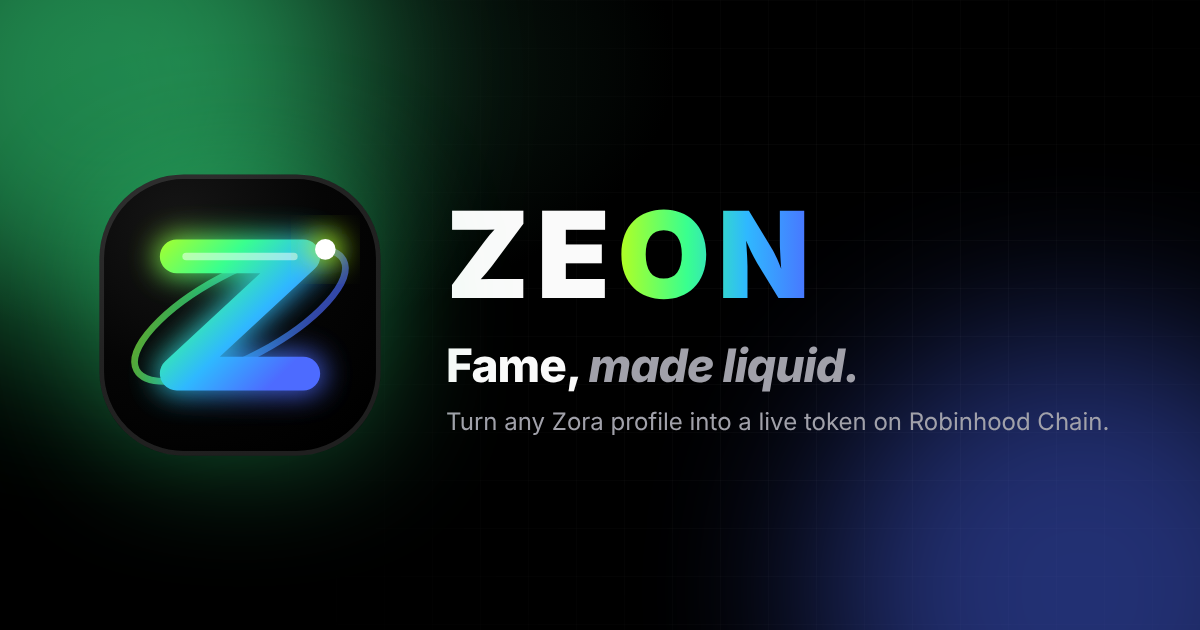
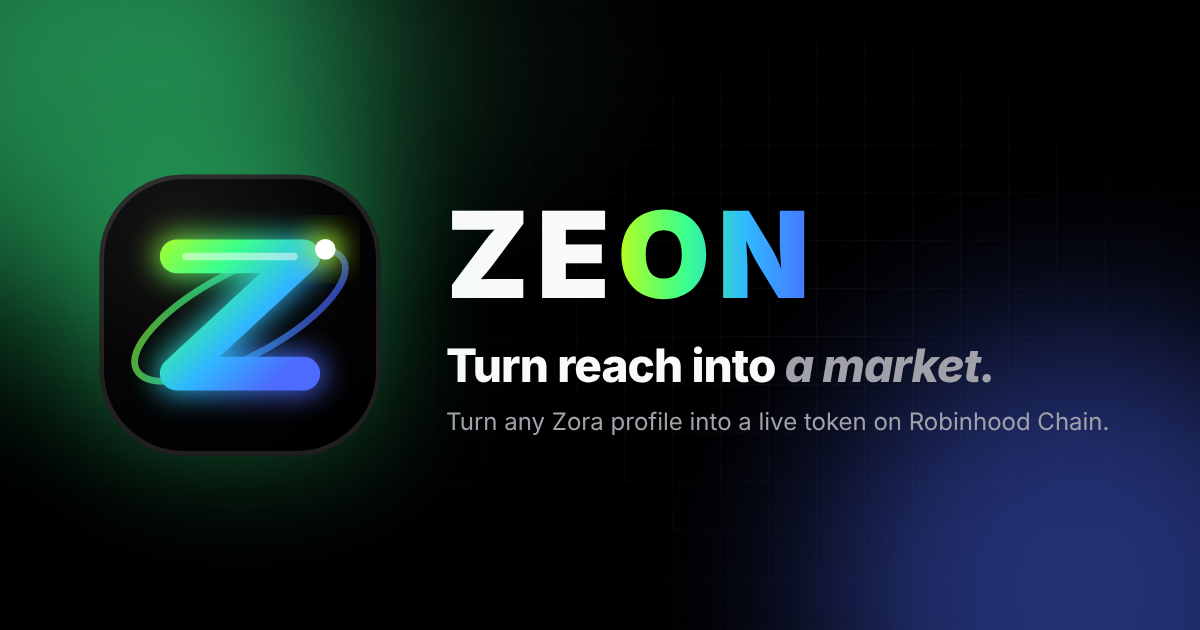
Change the headline to "Turn reach into a market."
Update the hero (keeping "a market." on one line), page title,
og/twitter titles, the link-preview image (cache-busted to ?v=4) and
the README.

Claude-Session: https://claude.ai/code/session_01ApRX4yECrfcvcA7r9BKTUg

Changed region(s): [[0.37, 0.5429, 0.8325, 0.6333]]

diff --git a/index.html b/index.html
@@ -18,17 +18,17 @@
     </script>
     <meta property="og:type" content="website" />
     <meta property="og:site_name" content="ZEON" />
-    <meta property="og:title" content="ZEON · Fame, made liquid" />
+    <meta property="og:title" content="ZEON · Turn reach into a market" />
     <meta property="og:description" content="Turn any Zora profile into a live token on Robinhood Chain." />
-    <meta property="og:image" content="%SITE_URL%/og-image.png?v=3" />
+    <meta property="og:image" content="%SITE_URL%/og-image.png?v=4" />
     <meta property="og:image:width" content="1200" />
     <meta property="og:image:height" content="630" />
     <meta property="og:url" content="%SITE_URL%/" />
     <meta name="twitter:card" content="summary_large_image" />
-    <meta name="twitter:title" content="ZEON · Fame, made liquid" />
+    <meta name="twitter:title" content="ZEON · Turn reach into a market" />
     <meta name="twitter:description" content="Turn any Zora profile into a live token on Robinhood Chain." />
-    <meta name="twitter:image" content="%SITE_URL%/og-image.png?v=3" />
-    <title>ZEON · Fame, made liquid</title>
+    <meta name="twitter:image" content="%SITE_URL%/og-image.png?v=4" />
+    <title>ZEON · Turn reach into a market</title>
     <meta name="description" content="ZEON turns any Zora profile into a live token on Robinhood Chain. Born on a bonding curve, priced by belief." />
   </head>
   <body>

diff --git a/src/components/ZeonHero.tsx b/src/components/ZeonHero.tsx
@@ -67,7 +67,7 @@ export function ZeonHero() {
         transition={{ duration: 0.6, delay: 0.2, ease: "easeOut" }}
         className="max-w-3xl text-5xl font-bold leading-[1.05] tracking-tight text-zinc-900 md:text-7xl dark:text-white"
       >
-        Fame, <em className="font-extrabold italic text-zinc-700 dark:text-zinc-300">made liquid.</em>
+        Turn reach into <em className="whitespace-nowrap font-extrabold italic text-zinc-700 dark:text-zinc-300">a market.</em>
       </motion.h1>
 
       <motion.p

diff --git a/README.md b/README.md
@@ -1,6 +1,6 @@
 # ZEON
 
-**Fame, made liquid.** ZEON turns any **Zora** profile into a live token on Robinhood Chain, launched through
+**Turn reach into a market.** ZEON turns any **Zora** profile into a live token on Robinhood Chain, launched through
 Pons V2. Tokens are born on a bonding curve and graduate to Uniswap v4 once the crowd
 shows up.
 
